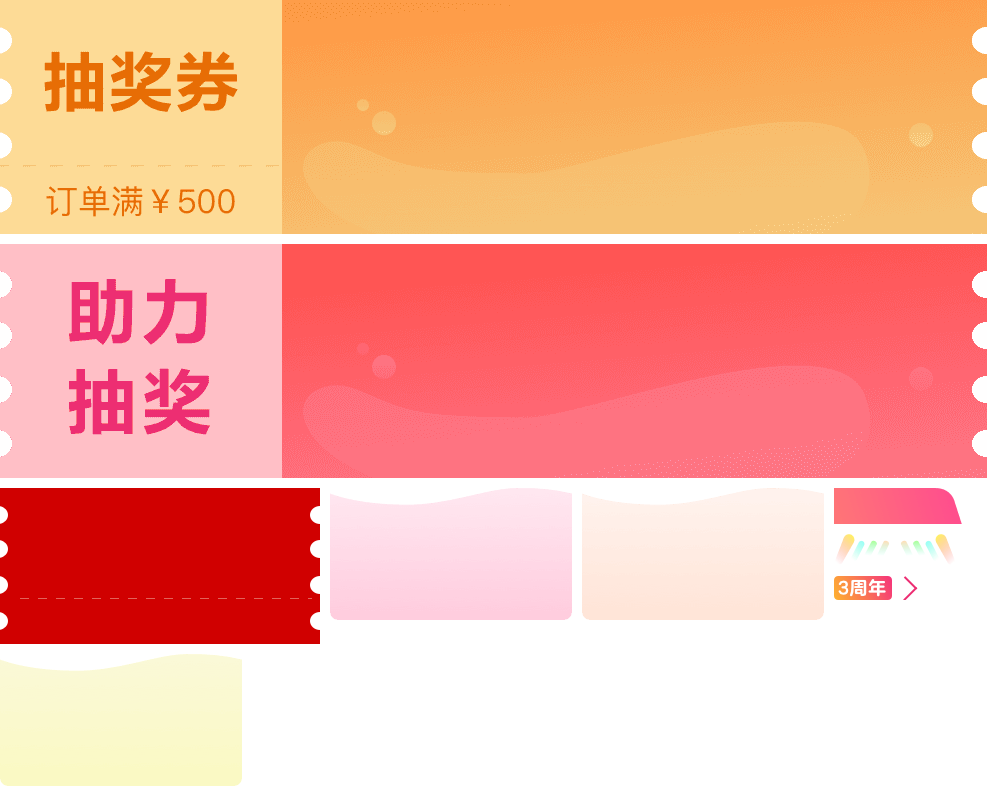
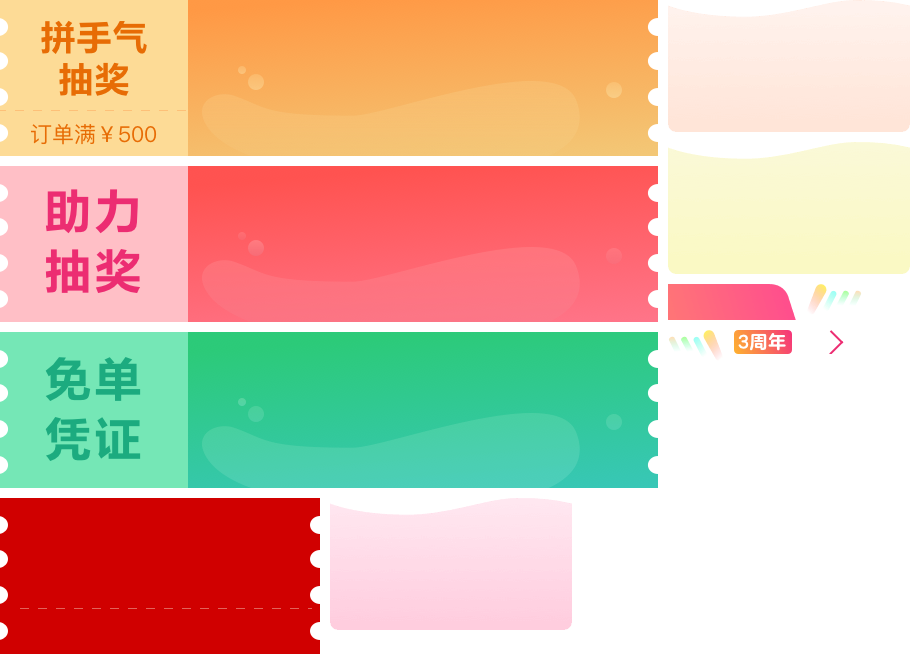
1018第二波 中奖纪录

diff --git a/src/page/act_1018_mine/css/_icon.scss b/src/page/act_1018_mine/css/_icon.scss
@@ -4,8 +4,8 @@
   display: inline-block;
   width: (16rem / 100 / $ratio);
   height: (24rem / 100 / $ratio);
-  background: url([[static]]/page/act_1018_mine/img/icon.png[[v]]) (-902rem / 100 / $ratio) (-576rem / 100 / $ratio) no-repeat;
-  background-size: (987rem / 100 / $ratio) (786rem / 100 / $ratio);
+  background: url([[static]]/page/act_1018_mine/img/icon.png[[v]]) (-828rem / 100 / $ratio) (-330rem / 100 / $ratio) no-repeat;
+  background-size: (910rem / 100 / $ratio) (654rem / 100 / $ratio);
 }
 
 // arrow-right 图片:
@@ -14,8 +14,8 @@
   display: inline-block;
   width: (16rem / 100 / $ratio);
   height: (24rem / 100 / $ratio);
-  background: url([[static]]/page/act_1018_mine/img/icon.png[[v]]) (-966rem / 100 / $ratio) (-534rem / 100 / $ratio) no-repeat;
-  background-size: (987rem / 100 / $ratio) (786rem / 100 / $ratio);
+  background: url([[static]]/page/act_1018_mine/img/icon.png[[v]]) (-802rem / 100 / $ratio) (-330rem / 100 / $ratio) no-repeat;
+  background-size: (910rem / 100 / $ratio) (654rem / 100 / $ratio);
 }
 
 // assist-bg-1 图片:
@@ -24,8 +24,8 @@
   display: inline-block;
   width: (242rem / 100 / $ratio);
   height: (132rem / 100 / $ratio);
-  background: url([[static]]/page/act_1018_mine/img/icon.png[[v]]) (-330rem / 100 / $ratio) (-488rem / 100 / $ratio) no-repeat;
-  background-size: (987rem / 100 / $ratio) (786rem / 100 / $ratio);
+  background: url([[static]]/page/act_1018_mine/img/icon.png[[v]]) (-330rem / 100 / $ratio) (-498rem / 100 / $ratio) no-repeat;
+  background-size: (910rem / 100 / $ratio) (654rem / 100 / $ratio);
 }
 
 // assist-bg-2 图片:
@@ -34,8 +34,8 @@
   display: inline-block;
   width: (242rem / 100 / $ratio);
   height: (132rem / 100 / $ratio);
-  background: url([[static]]/page/act_1018_mine/img/icon.png[[v]]) (-582rem / 100 / $ratio) (-488rem / 100 / $ratio) no-repeat;
-  background-size: (987rem / 100 / $ratio) (786rem / 100 / $ratio);
+  background: url([[static]]/page/act_1018_mine/img/icon.png[[v]]) (-668rem / 100 / $ratio) (0rem / 100 / $ratio) no-repeat;
+  background-size: (910rem / 100 / $ratio) (654rem / 100 / $ratio);
 }
 
 // assist-bg-3 图片:
@@ -44,28 +44,38 @@
   display: inline-block;
   width: (242rem / 100 / $ratio);
   height: (132rem / 100 / $ratio);
-  background: url([[static]]/page/act_1018_mine/img/icon.png[[v]]) (0rem / 100 / $ratio) (-654rem / 100 / $ratio) no-repeat;
-  background-size: (987rem / 100 / $ratio) (786rem / 100 / $ratio);
+  background: url([[static]]/page/act_1018_mine/img/icon.png[[v]]) (-668rem / 100 / $ratio) (-142rem / 100 / $ratio) no-repeat;
+  background-size: (910rem / 100 / $ratio) (654rem / 100 / $ratio);
 }
 
 // draw-bg-assist 图片:
 @mixin i-draw-bg-assist($ratio: 2) {
   content: '';
   display: inline-block;
-  width: (987rem / 100 / $ratio);
-  height: (234rem / 100 / $ratio);
-  background: url([[static]]/page/act_1018_mine/img/icon.png[[v]]) (0rem / 100 / $ratio) (-244rem / 100 / $ratio) no-repeat;
-  background-size: (987rem / 100 / $ratio) (786rem / 100 / $ratio);
+  width: (658rem / 100 / $ratio);
+  height: (156rem / 100 / $ratio);
+  background: url([[static]]/page/act_1018_mine/img/icon.png[[v]]) (0rem / 100 / $ratio) (-166rem / 100 / $ratio) no-repeat;
+  background-size: (910rem / 100 / $ratio) (654rem / 100 / $ratio);
+}
+
+// draw-bg-free 图片:
+@mixin i-draw-bg-free($ratio: 2) {
+  content: '';
+  display: inline-block;
+  width: (658rem / 100 / $ratio);
+  height: (156rem / 100 / $ratio);
+  background: url([[static]]/page/act_1018_mine/img/icon.png[[v]]) (0rem / 100 / $ratio) (-332rem / 100 / $ratio) no-repeat;
+  background-size: (910rem / 100 / $ratio) (654rem / 100 / $ratio);
 }
 
 // draw-bg-order 图片:
 @mixin i-draw-bg-order($ratio: 2) {
   content: '';
   display: inline-block;
-  width: (987rem / 100 / $ratio);
-  height: (234rem / 100 / $ratio);
+  width: (658rem / 100 / $ratio);
+  height: (156rem / 100 / $ratio);
   background: url([[static]]/page/act_1018_mine/img/icon.png[[v]]) (0rem / 100 / $ratio) (0rem / 100 / $ratio) no-repeat;
-  background-size: (987rem / 100 / $ratio) (786rem / 100 / $ratio);
+  background-size: (910rem / 100 / $ratio) (654rem / 100 / $ratio);
 }
 
 // more 图片:
@@ -74,8 +84,8 @@
   display: inline-block;
   width: (26rem / 100 / $ratio);
   height: (26rem / 100 / $ratio);
-  background: url([[static]]/page/act_1018_mine/img/icon.png[[v]]) (-252rem / 100 / $ratio) (-654rem / 100 / $ratio) no-repeat;
-  background-size: (987rem / 100 / $ratio) (786rem / 100 / $ratio);
+  background: url([[static]]/page/act_1018_mine/img/icon.png[[v]]) (-872rem / 100 / $ratio) (-284rem / 100 / $ratio) no-repeat;
+  background-size: (910rem / 100 / $ratio) (654rem / 100 / $ratio);
 }
 
 // recommend-act 图片:
@@ -84,8 +94,8 @@
   display: inline-block;
   width: (128rem / 100 / $ratio);
   height: (36rem / 100 / $ratio);
-  background: url([[static]]/page/act_1018_mine/img/icon.png[[v]]) (-834rem / 100 / $ratio) (-488rem / 100 / $ratio) no-repeat;
-  background-size: (987rem / 100 / $ratio) (786rem / 100 / $ratio);
+  background: url([[static]]/page/act_1018_mine/img/icon.png[[v]]) (-668rem / 100 / $ratio) (-284rem / 100 / $ratio) no-repeat;
+  background-size: (910rem / 100 / $ratio) (654rem / 100 / $ratio);
 }
 
 // recommend-icon 图片:
@@ -94,8 +104,8 @@
   display: inline-block;
   width: (58rem / 100 / $ratio);
   height: (24rem / 100 / $ratio);
-  background: url([[static]]/page/act_1018_mine/img/icon.png[[v]]) (-834rem / 100 / $ratio) (-576rem / 100 / $ratio) no-repeat;
-  background-size: (987rem / 100 / $ratio) (786rem / 100 / $ratio);
+  background: url([[static]]/page/act_1018_mine/img/icon.png[[v]]) (-734rem / 100 / $ratio) (-330rem / 100 / $ratio) no-repeat;
+  background-size: (910rem / 100 / $ratio) (654rem / 100 / $ratio);
 }
 
 // redpack-bg 图片:
@@ -104,8 +114,8 @@
   display: inline-block;
   width: (320rem / 100 / $ratio);
   height: (156rem / 100 / $ratio);
-  background: url([[static]]/page/act_1018_mine/img/icon.png[[v]]) (0rem / 100 / $ratio) (-488rem / 100 / $ratio) no-repeat;
-  background-size: (987rem / 100 / $ratio) (786rem / 100 / $ratio);
+  background: url([[static]]/page/act_1018_mine/img/icon.png[[v]]) (0rem / 100 / $ratio) (-498rem / 100 / $ratio) no-repeat;
+  background-size: (910rem / 100 / $ratio) (654rem / 100 / $ratio);
 }
 
 // title-type-2-left 图片:
@@ -114,8 +124,8 @@
   display: inline-block;
   width: (56rem / 100 / $ratio);
   height: (32rem / 100 / $ratio);
-  background: url([[static]]/page/act_1018_mine/img/icon.png[[v]]) (-900rem / 100 / $ratio) (-534rem / 100 / $ratio) no-repeat;
-  background-size: (987rem / 100 / $ratio) (786rem / 100 / $ratio);
+  background: url([[static]]/page/act_1018_mine/img/icon.png[[v]]) (-668rem / 100 / $ratio) (-330rem / 100 / $ratio) no-repeat;
+  background-size: (910rem / 100 / $ratio) (654rem / 100 / $ratio);
 }
 
 // title-type-2-right 图片:
@@ -124,7 +134,7 @@
   display: inline-block;
   width: (56rem / 100 / $ratio);
   height: (32rem / 100 / $ratio);
-  background: url([[static]]/page/act_1018_mine/img/icon.png[[v]]) (-834rem / 100 / $ratio) (-534rem / 100 / $ratio) no-repeat;
-  background-size: (987rem / 100 / $ratio) (786rem / 100 / $ratio);
+  background: url([[static]]/page/act_1018_mine/img/icon.png[[v]]) (-806rem / 100 / $ratio) (-284rem / 100 / $ratio) no-repeat;
+  background-size: (910rem / 100 / $ratio) (654rem / 100 / $ratio);
 }
 

diff --git a/src/page/act_1018_mine/act_1018_mine.html b/src/page/act_1018_mine/act_1018_mine.html
@@ -265,24 +265,32 @@
       <!--<div class="draw-record" v-if="isSeller || isAdviser">-->
       <div class="draw-record" v-if="response.data.drawRecord">
         <!--标题-->
-        <div class="title-type-2">我的抽奖记录</div>
+        <div class="title-type-2">我的中奖记录</div>
         <!--红包列表-->
         <ul class="list">
           <template v-for="(item, i) in response.data.drawRecord">
             <!--<li class="order no-draw">
               <div class="title">最高可中1018元现金大奖!</div>
               <div class="text"><span class="btn">立即抽奖</span></div>
-            </li>
-            <li class="order draw">
+            </li>-->
+            <li class="order draw" v-if="item.type == '2'">
               <div class="title">
-                抽中10.18现金！已送到你的
-                <a class="account" href="/s[[env_num]].[[base_domain]]/index.php?m=admin&c=newIncome&a=detail&status=0&cat=5">大V账户</a>~
+                抽中{{item.money}}现金！已送到你的
+                <a class="account" href="//s[[env_num]].[[base_domain]]/index.php?m=admin&c=newIncome&a=detail&status=0&cat=5">大V账户</a>~
               </div>
               <div class="time">抽奖时间: 2017.10.22 06:01:12</div>
-            </li>-->
-            <li class="assist" v-if="item.type == '1'">
+            </li>
+            <li class="assist" v-else-if="item.type == '1'">
               <div class="title">抽中一台iPhone8</div>
               <div class="text">请等待工作人员联系你</div>
+              <div class="time">抽奖时间: {{date.format(item.time + '000', 'yyyy.MM.dd hh:mm:ss')}}</div>
+            </li>
+            <li class="order free" v-else-if="item.type == '3'">
+              <div class="title">抽中免单机会！</div>
+              <div class="text">
+                返现金额已送到你的
+                <a class="account" href="//s[[env_num]].[[base_domain]]/index.php?m=admin&c=newIncome&a=detail&status=0&cat=5">大V账户</a>~
+              </div>
               <div class="time">抽奖时间: {{date.format(item.time + '000', 'yyyy.MM.dd hh:mm:ss')}}</div>
             </li>
           </template>

diff --git a/src/page/act_1018_mine/css/act_1018_mine.scss b/src/page/act_1018_mine/css/act_1018_mine.scss
@@ -593,15 +593,15 @@
           }
           .title {
             font-weight: bold;
-            .account {
-              text-decoration: underline;
-            }
+          }
+          .account {
+            text-decoration: underline;
           }
           &:not(:first-of-type) {
             margin-top: ptr(10);
           }
           &.order {
-            @include i-draw-bg-order(3);
+            @include i-draw-bg-order;
             &.no-draw {
               .title {
                 top: ptr(12);
@@ -631,17 +631,31 @@
             }
           }
           &.assist {
-            @include i-draw-bg-assist(3);
+            @include i-draw-bg-assist;
             .title {
               top: ptr(10);
               font-size: ptr(18);
               line-height: ptr(25);
             }
+            .text {
+              top: ptr(37);
+            }
             .time {
-              top: ptr(36);
+              top: ptr(56);
+            }
+          }
+          &.free {
+            @include i-draw-bg-free;
+            .title {
+              top: ptr(10);
+              font-size: ptr(18);
+              line-height: ptr(25);
             }
             .text {
-              top: ptr(53);
+              top: ptr(37);
+            }
+            .time {
+              top: ptr(56);
             }
           }
         }

diff --git a/src/page/act_1018_mine/js/act_1018_mine.js b/src/page/act_1018_mine/js/act_1018_mine.js
@@ -136,7 +136,9 @@ new Vue({
         }),
         success(response) {
           common.checkRedirect(response);
-          ts.response = response;
+
+          // ts.response = response;
+          ts.response = require('../json/act_1018_mine.json');
 
           // 存缓存
           // localCache.setItem({
